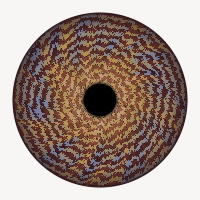
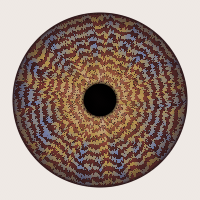
feat: draw the filament contours, subdivide the crypts, tint the ground
Four refinements after looking at the first sixteen seeds at print size.

Filament read as fur rather than as drawing: with all six octaves in the
level, the field's crossings land closer together than any line width. The
contour and its body now come from a three-octave truncation, so the lines are
wide apart and legible, and the full field's fine residual only nudges each
line off true. Every fourth line is drawn heavy, the way a survey map indexes
its contours — an even comb of identical threads is what read as hair.

Crypt tiles were flat at a metre across. A second, much finer generation of
cells now subdivides each lacuna, so a tile is still holding something to look
at when the print is large.

The pupil was a flat black disc, which reads as a hole cut in the picture: the
stroma's own field now survives inside it as a barely visible turbulence and
the aperture deepens toward its centre.

Every ground level now carries the palette's own hue rather than being a
desaturated near-white or near-black, because a disc this saturated on
undifferentiated white reads as a cut-out.

Weave is reweighted hard toward radial: a wound stroma is a strong effect and
a rare one, and a sheet of them stops reading as an iris at all.

diff --git a/internal/sketch/iris/iris.go b/internal/sketch/iris/iris.go
@@ -29,6 +29,9 @@ const (
 	seedSector = 0x697269732d7365
 	seedCrypt  = 0x697269732d6372
 
+	// cryptGrainSalt separates the fine in-cell generation from the cells.
+	cryptGrainSalt = 0x6772
+
 	// Named RNG streams. Traits are resolved before any number is drawn, so
 	// adding a numeric range later never moves an existing seed's traits.
 	streamTraits = 1
@@ -227,14 +230,19 @@ func (s *Sketch) plan(ctx sketch.Context) (plan, error) {
 	// the structure stays legible everywhere on the sheet.
 	body := newValueRamp(colors)
 
+	// The ground is never neutral. A disc this saturated on undifferentiated
+	// white reads as a cut-out; every level therefore keeps some of the
+	// palette's own hue while staying far enough from the stroma in value
+	// that the rim still cuts.
+	accentColor := accent(colors)
 	var groundColor palette.Color
 	switch set.ground {
 	case groundDark:
-		groundColor = darkest.ContrastShade(0.06).Desaturate(0.35)
+		groundColor = palette.Lerp(darkest, accentColor, 0.16).Desaturate(0.3).ContrastShade(0.03)
 	case groundPalette:
-		groundColor = palette.Lerp(colors[1], darkest, 0.4).Desaturate(0.3)
+		groundColor = palette.Lerp(colors[1], darkest, 0.45).Desaturate(0.42).Lighten(0.08)
 	default:
-		groundColor = lightest.Lighten(0.88).Desaturate(0.55)
+		groundColor = palette.Lerp(lightest, accentColor, 0.14).Lighten(0.74).Desaturate(0.3)
 	}
 
 	aspect := float64(ctx.Width) / float64(ctx.Height)
@@ -249,7 +257,7 @@ func (s *Sketch) plan(ctx sketch.Context) (plan, error) {
 		centreU:     aspect / 2,
 		centreV:     0.5,
 		body:        body,
-		accent:      accent(colors),
+		accent:      accentColor,
 		light:       lightest,
 		dark:        darkest,
 		limbal:      palette.Lerp(darkest, colors[1], 0.25),
@@ -263,6 +271,25 @@ func (s *Sketch) plan(ctx sketch.Context) (plan, error) {
 func (p plan) fbm(field *noise.Perlin, x, y float64) float64 {
 	value, _ := p.fbmWithFine(field, x, y)
 	return value
+}
+
+// fbmBroad is the same field truncated to its first few octaves. Contour work
+// needs a field whose level sets are curves, not a field whose level sets are
+// everywhere: with all six octaves in, the crossings land closer together than
+// any line width and the drawing collapses into hair.
+func (p plan) fbmBroad(field *noise.Perlin, x, y float64, octaves int) float64 {
+	if octaves > p.set.octaves {
+		octaves = p.set.octaves
+	}
+	sum, weight := 0.0, 0.0
+	amplitude := 1.0
+	for range octaves {
+		sum += field.At(x, y) * amplitude
+		weight += amplitude
+		x, y = rotateScale(x, y, p.set.lacunarity)
+		amplitude *= p.set.gain
+	}
+	return sum / weight
 }
 
 // fbmWithFine also returns the top two octaves on their own, the residual the
@@ -401,12 +428,32 @@ func (p plan) readFiber(pt polar) stroma {
 // contour is placed by the field, and only the warp makes them run outward.
 func (p plan) readFilament(pt polar) stroma {
 	value, fine := p.fbmWithFine(p.value, pt.warpX, pt.warpY)
-	level := (value*2.6 + fine*0.7) * p.set.bands / 7
-	distance := math.Abs(level - math.Round(level))
-	thread := mathx.Smoothstep(0.19, 0.03, distance)
-	body := mathx.Smoothstep(-0.42, 0.42, value)
+
+	// The contour is placed by a three-octave field, so the lines are wide
+	// apart and legible as drawing; the full field's fine residual only
+	// nudges each line off true, which is what keeps them from looking
+	// mechanically drafted.
+	broad := p.fbmBroad(p.value, pt.warpX, pt.warpY, 3)
+	level := (broad*3.1 + fine*0.28) * p.set.bands / 7
+	nearest := math.Round(level)
+	distance := math.Abs(level - nearest)
+
+	// Index contours: every fourth line is drawn heavy and the rest fine,
+	// the way a survey map does it. Without the hierarchy an even comb of
+	// identical threads reads as brushed hair rather than as drawing.
+	width, weight := 0.11, 0.52
+	if index := math.Mod(math.Abs(nearest), 4) < 0.5; index {
+		width, weight = 0.19, 0.95
+	}
+	thread := mathx.Smoothstep(width, 0.02, distance) * weight
+
+	// The body comes from the same broad field the lines do, so the colour
+	// underneath them is a few calm zones. Reading it from the full field
+	// instead fills every one of those zones with its own fur, and then the
+	// lines are the least of what you see.
+	body := mathx.Smoothstep(-0.38, 0.38, broad) + value*0.12
 	return stroma{
-		tone:   mathx.Clamp01(0.16 + body*0.5 + thread*0.42),
+		tone:   mathx.Clamp01(0.14 + body*0.52 + thread*0.34),
 		spark:  thread,
 		shadow: mathx.Smoothstep(0.3, 0.46, distance) * 0.5,
 	}
@@ -445,11 +492,20 @@ func (p plan) readCrypt(pt polar) stroma {
 	cellX, cellY, f1, f2 := noise.WorleyCell(p.crypt, pt.warpX*density, pt.warpY*density)
 	web := mathx.Smoothstep(0.015, 0.11, f2-f1)
 	flat := noise.Hash01(p.crypt, cellX, cellY)
+
+	// A second, much finer generation of cells inside each lacuna. A flat
+	// tile is a shape at any size; a flat tile subdivided is a shape that
+	// still holds something to look at when the print is a metre across.
+	innerX, innerY, g1, g2 := noise.WorleyCell(p.crypt^cryptGrainSalt,
+		pt.warpX*density*3.7, pt.warpY*density*3.7)
+	grain := noise.Hash01(p.crypt^cryptGrainSalt, innerX, innerY)
+	seam := mathx.Smoothstep(0.01, 0.06, g2-g1)
+
 	value, _ := p.fbmWithFine(p.value, pt.warpX*0.7, pt.warpY*0.7)
 	return stroma{
-		tone:   mathx.Clamp01(0.22 + flat*0.62 + value*0.24),
+		tone:   mathx.Clamp01(0.22 + flat*0.56 + grain*0.1 + value*0.24),
 		spark:  mathx.Smoothstep(0.42, 0.06, f1) * 0.5 * flat,
-		shadow: 1 - web,
+		shadow: (1 - web) + (1-seam)*0.35*web,
 	}
 }
 
@@ -492,7 +548,7 @@ func (p plan) At(u, v float64) palette.Color {
 		return p.groundColor
 	}
 	if radius <= p.set.pupil-edge {
-		return p.pupil
+		return p.pupilAt(du, dv, radius)
 	}
 	scale := math.Hypot(du, dv)
 	dirX, dirY := du/scale, dv/scale
@@ -508,6 +564,15 @@ func (p plan) At(u, v float64) palette.Color {
 		color = palette.Lerp(p.pupil, color, mathx.Smoothstep(p.set.pupil-edge, p.set.pupil+edge, radius))
 	}
 	return color.Clamp()
+}
+
+// pupilAt keeps the pupil dark but not dead: the same field the stroma is made
+// of survives in it as a barely visible turbulence, and the aperture deepens
+// toward its own centre. A flat black disc reads as a hole cut in the picture.
+func (p plan) pupilAt(du, dv, radius float64) palette.Color {
+	turbulence := p.fbm(p.value, du*7.3+21.7, dv*7.3-14.9)
+	well := 1 - mathx.Smoothstep(0.1, 0.98, radius/p.set.pupil)*0.55
+	return palette.Lerp(p.pupil, p.limbal, mathx.Clamp01(0.06+turbulence*0.22)*well).Clamp()
 }
 
 // Render implements sketch.Sketch.

diff --git a/internal/sketch/iris/traits.go b/internal/sketch/iris/traits.go
@@ -35,10 +35,12 @@ var schema = trait.Schema{
 	{
 		Name: dimWeave, Key: "w", InName: true,
 		Doc: "which way the stroma runs out of the pupil",
+		// Weighted hard toward radial: a wound stroma is a strong effect and
+		// a rare one, and a sheet of them stops reading as an iris at all.
 		Values: []trait.Value{
-			{Name: "radial", Weight: 4},
-			{Name: "swirl", Weight: 3},
-			{Name: "vortex", Weight: 1.5},
+			{Name: "radial", Weight: 7},
+			{Name: "swirl", Weight: 2},
+			{Name: "vortex", Weight: 0.8},
 		},
 	},
 	{
@@ -121,7 +123,7 @@ func draw(set trait.Set, rng *rand.Rand) settings {
 	}
 	switch set.Get(dimWeave) {
 	case "swirl":
-		s.twist = turn * rnd.Uniform(rng, 0.55, 1.35)
+		s.twist = turn * rnd.Uniform(rng, 0.45, 1.05)
 	case "vortex":
 		s.twist = turn * rnd.Uniform(rng, 1.9, 3.6)
 	default:

diff --git a/docs/sketches/014-iris.md b/docs/sketches/014-iris.md
@@ -106,6 +106,15 @@ On top of that ramp:
   marks where the stroma meets the pupil. These are the only places radius
   overrules the field.
 
+The pupil is dark but not dead: the same field the stroma is made of survives
+inside it as a barely visible turbulence, and the aperture deepens toward its
+own centre. A flat black disc reads as a hole cut in the picture rather than as
+part of it.
+
+The ground is never neutral. Every level carries the palette's own hue — a
+tinted paper, a deep tone, or a receding mid — because a disc this saturated
+sitting on undifferentiated white reads as a cut-out rather than as a picture.
+
 `tint sector` adds a slow field read on a small circle — a function of angle
 only — that slides whole wedges of the stroma along the value ramp, the way a
 real sectoral heterochromia does.
